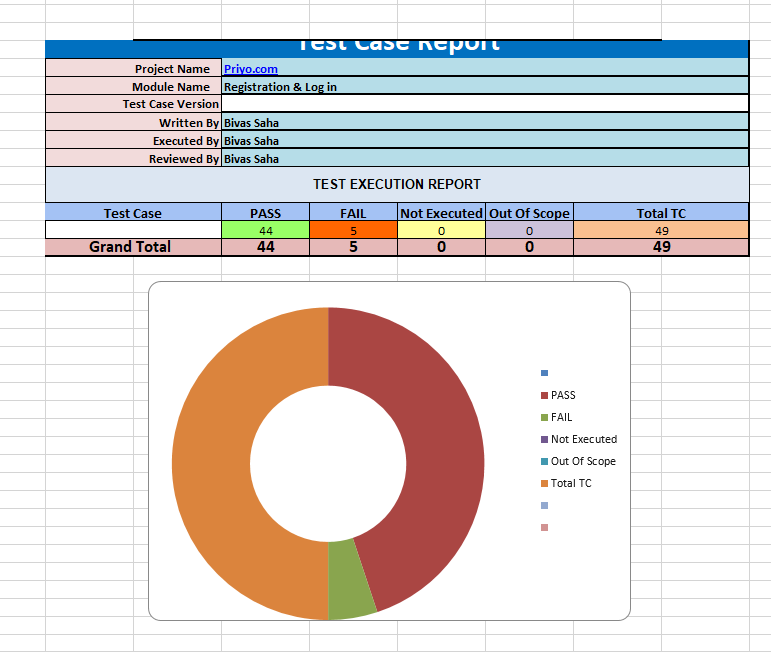
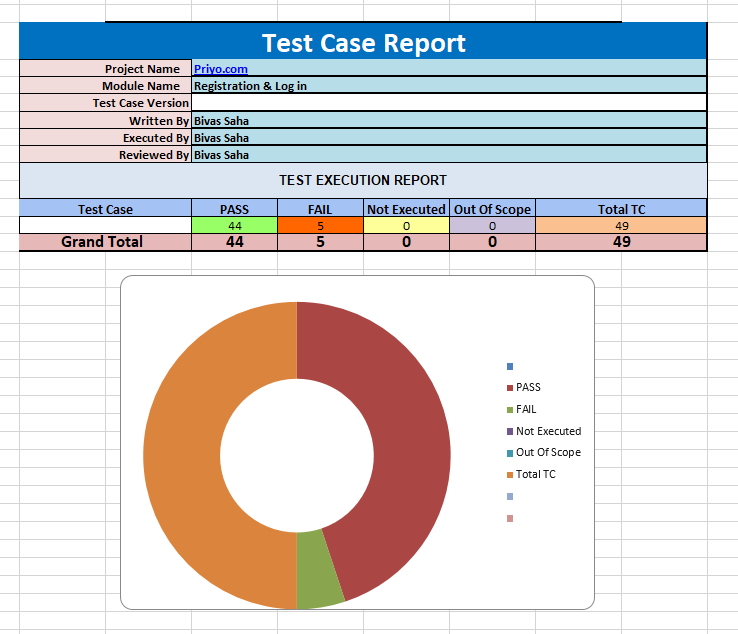
Added Readme File

Changed region(s): [[0.0, 0.03, 1.0, 1.0], [0.3117, 0.4795, 0.374, 0.5095], [0.3428, 0.5994, 0.374, 0.6293]]

diff --git a/README.md b/README.md
@@ -62,7 +62,7 @@ Each test case in the Excel file includes the following fields:
 - **Remarks:** Additional notes or observations.
 
 ## Test Report Summary
-![Test Summary Report](https://i.ibb.co.com/2YHwnLV2/Screenshot-2025-05-03-225012.png)
+![Test Summary Report](https://i.ibb.co.com/hxM1ZCYb/Screenshot-2025-05-03-225012.png)
 
 ## Contributing
 Contributions are welcome! If you have suggestions or improvements, feel free to fork the repository and submit a pull request.
